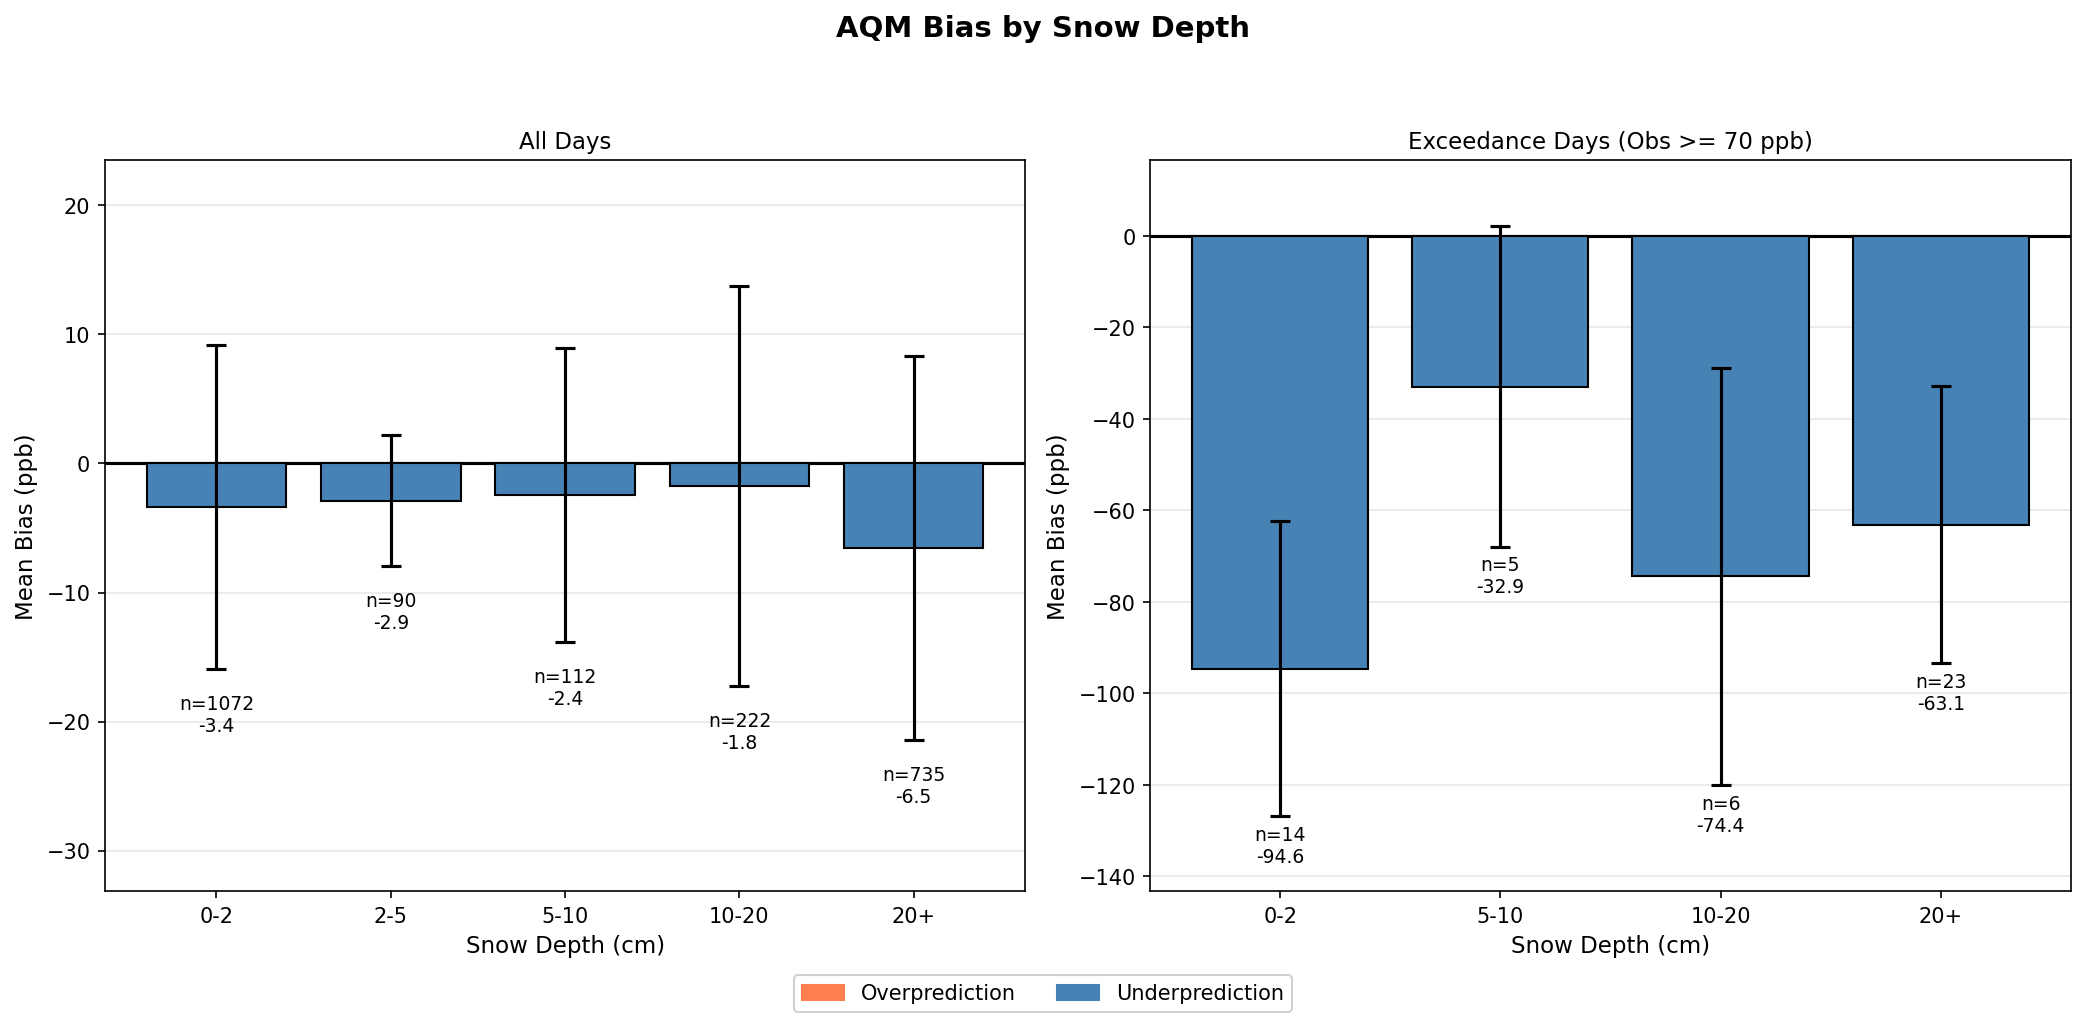
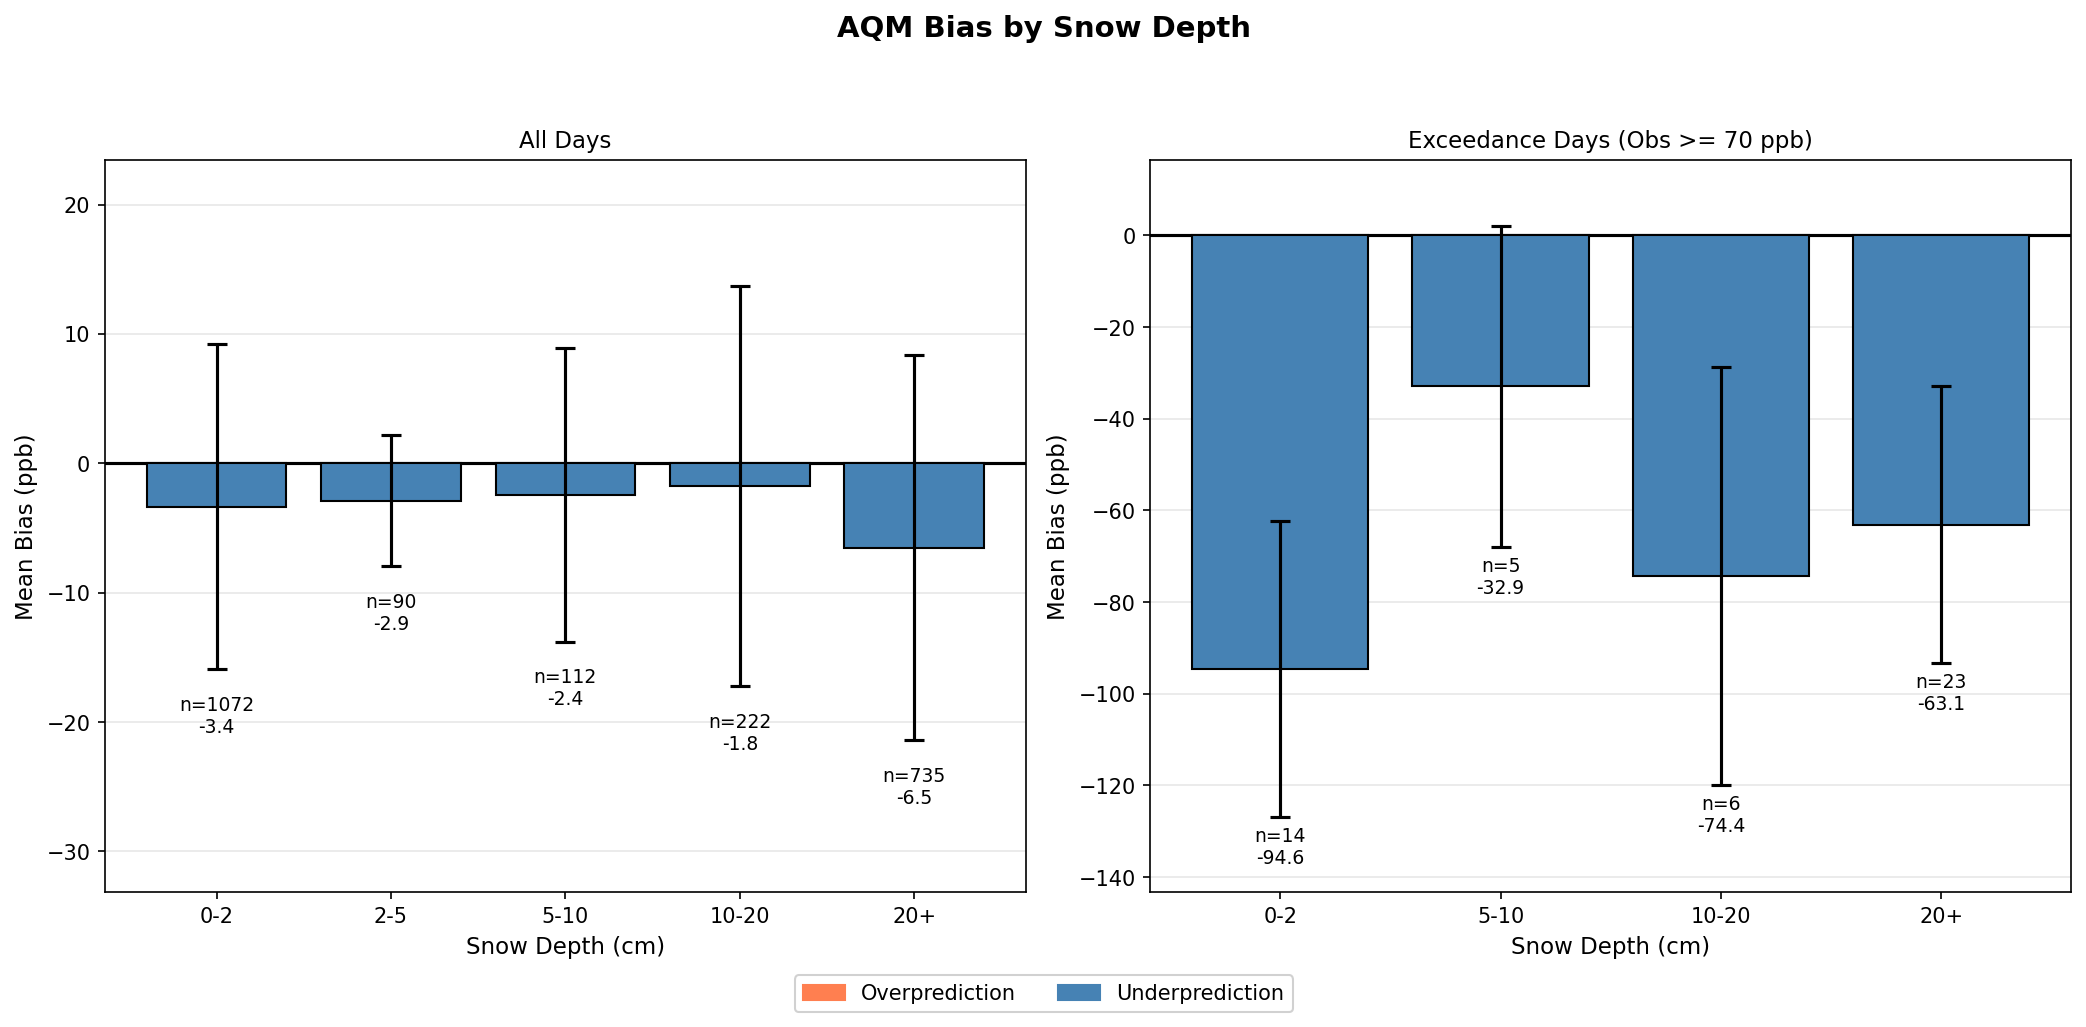
Fix incorrect comments and remove unused code

diff --git a/src/fetch_multiyear.py b/src/fetch_multiyear.py
@@ -50,15 +50,13 @@ def main() -> None:
     print(f"Fetching Uinta Basin stations: {stations}")
     print(f"Fetching {len(args.winters)} winter seasons: {args.winters}")
 
-    results = {}
     for winter in sorted(args.winters):
-        obs_path, aqm_path = fetch_winter(winter, args.data_dir, stations=stations)
-        results[winter] = {'obs': obs_path, 'aqm': aqm_path}
+        fetch_winter(winter, args.data_dir, stations=stations)
 
     print(f"\n{'='*60}")
     print("FETCH COMPLETE")
     print('='*60)
-    for winter, paths in results.items():
+    for winter in sorted(args.winters):
         print(f"  {winter}: Obs OK  AQM OK")
 
 

diff --git a/src/find_case_studies.py b/src/find_case_studies.py
@@ -246,7 +246,7 @@ def print_gfs_comparison(cases: list[tuple[str, date]]) -> None:
 def print_event_evolution(df: pl.DataFrame, start_date: date, end_date: date) -> None:
     """Print AQM error evolution over a multi-day event."""
     print('\n' + '=' * 65)
-    print('AQM ERROR EVOLUTION (Feb 2023 Event)')
+    print(f'AQM ERROR EVOLUTION ({start_date} to {end_date})')
     print('=' * 65)
     print(f'{"Date":<12} {"Mean Obs":>10} {"Mean AQM":>10} {"Mean Bias":>12} {"Phase":<12}')
     print('-' * 65)

diff --git a/src/analyze_snow_bias.py b/src/analyze_snow_bias.py
@@ -26,7 +26,7 @@ def aggregate_daily_snow(df: pl.DataFrame) -> pl.DataFrame:
     Aggregate sub-hourly/hourly snow to daily values per station.
 
     Uses median to be robust against sensor outliers.
-    Value is already in cm (Synoptic API returns cm for snow_depth).
+    Synoptic API returns mm for snow_depth.
     """
     df = df.with_columns([
         pl.col('date_time').dt.date().alias('date')
